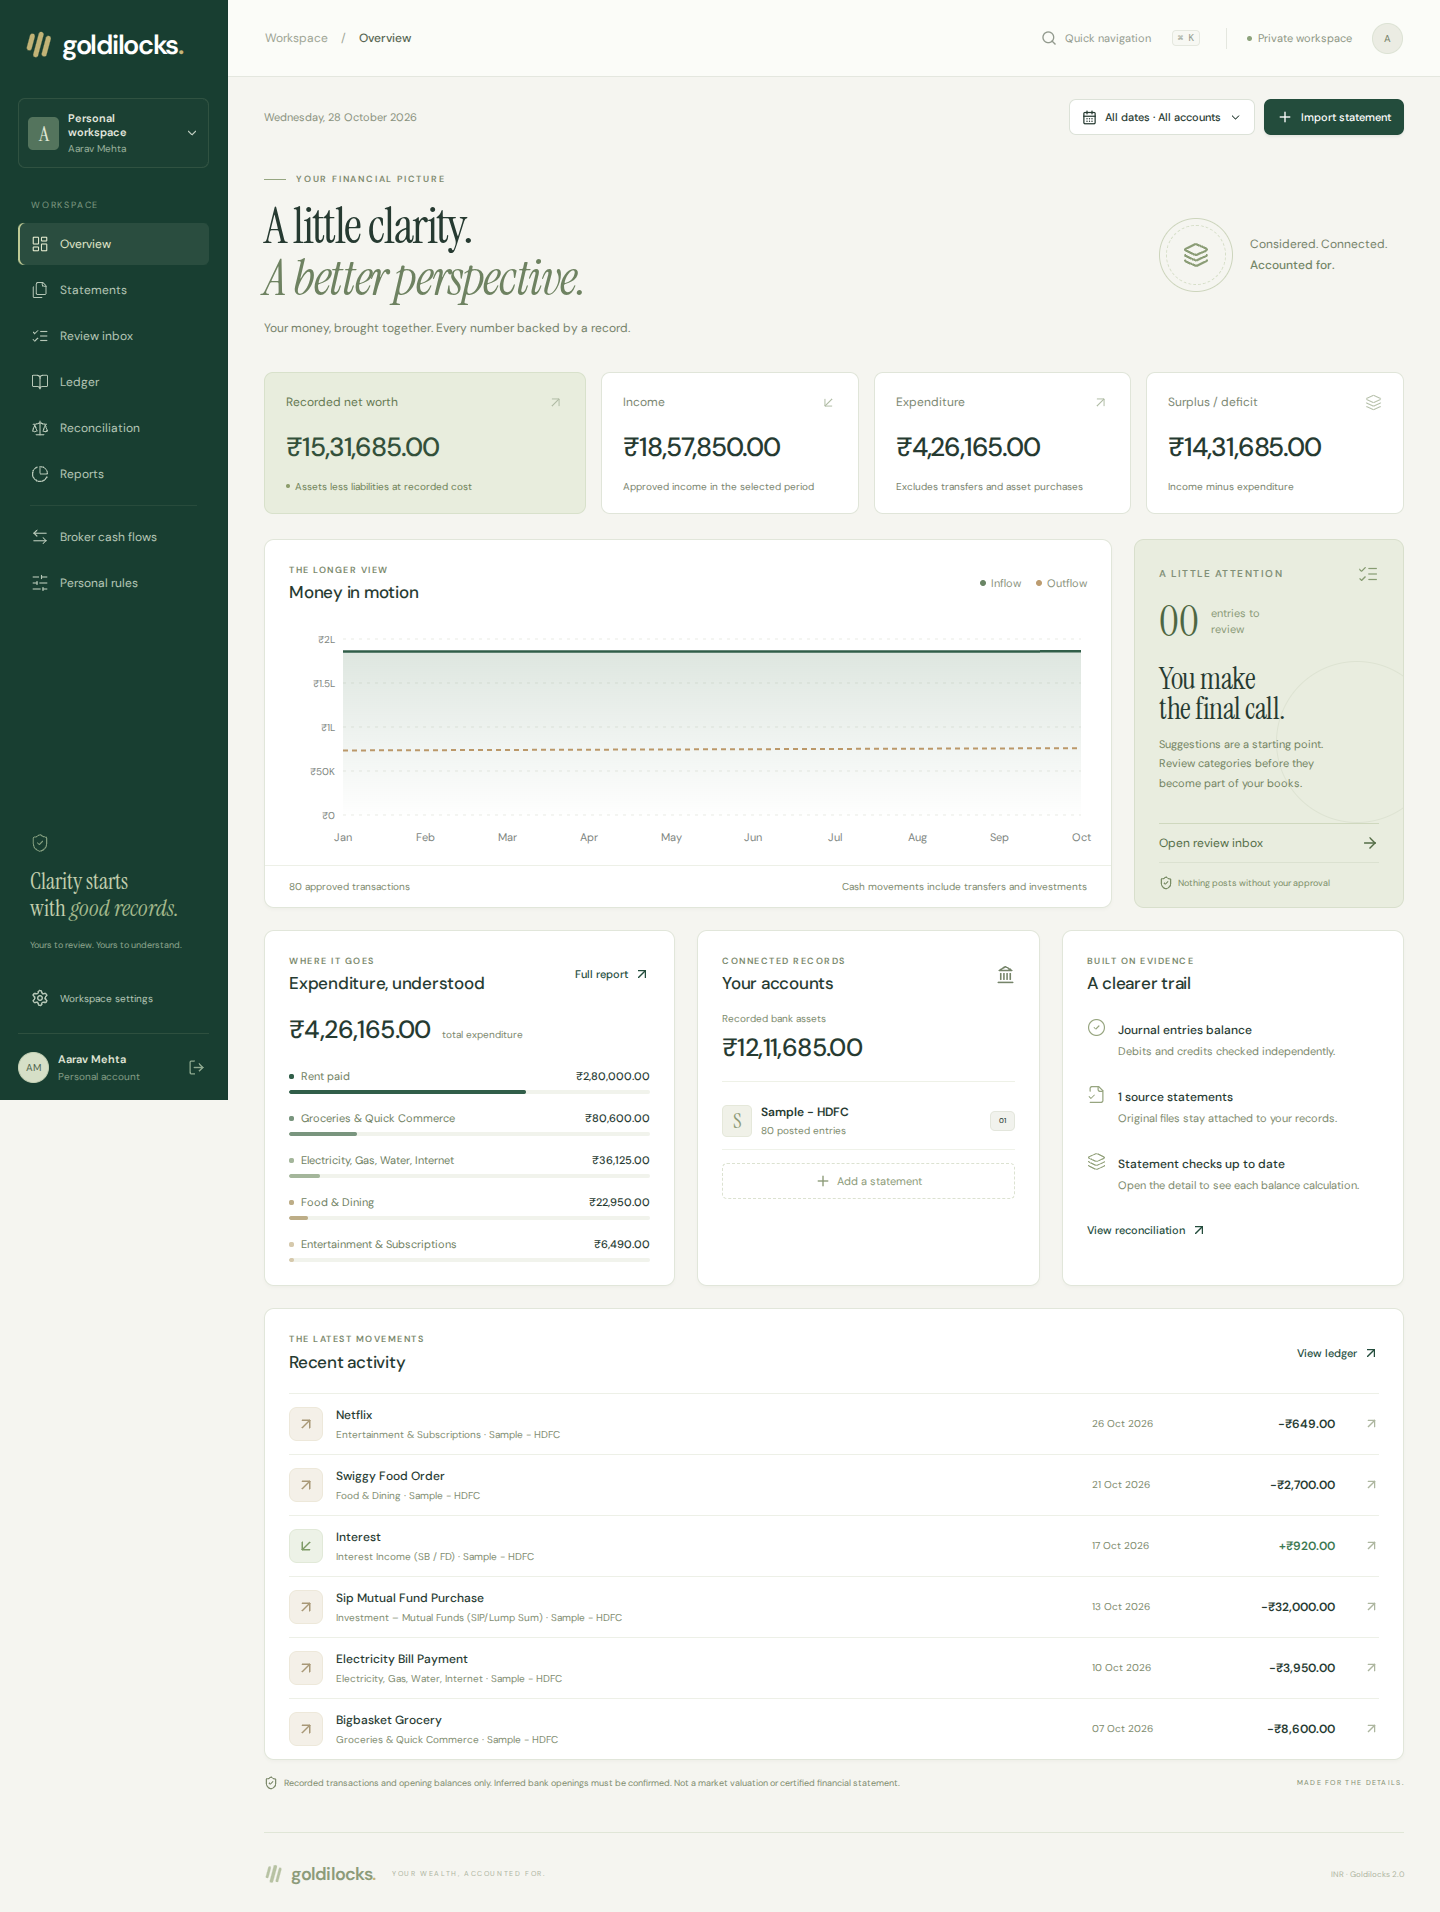
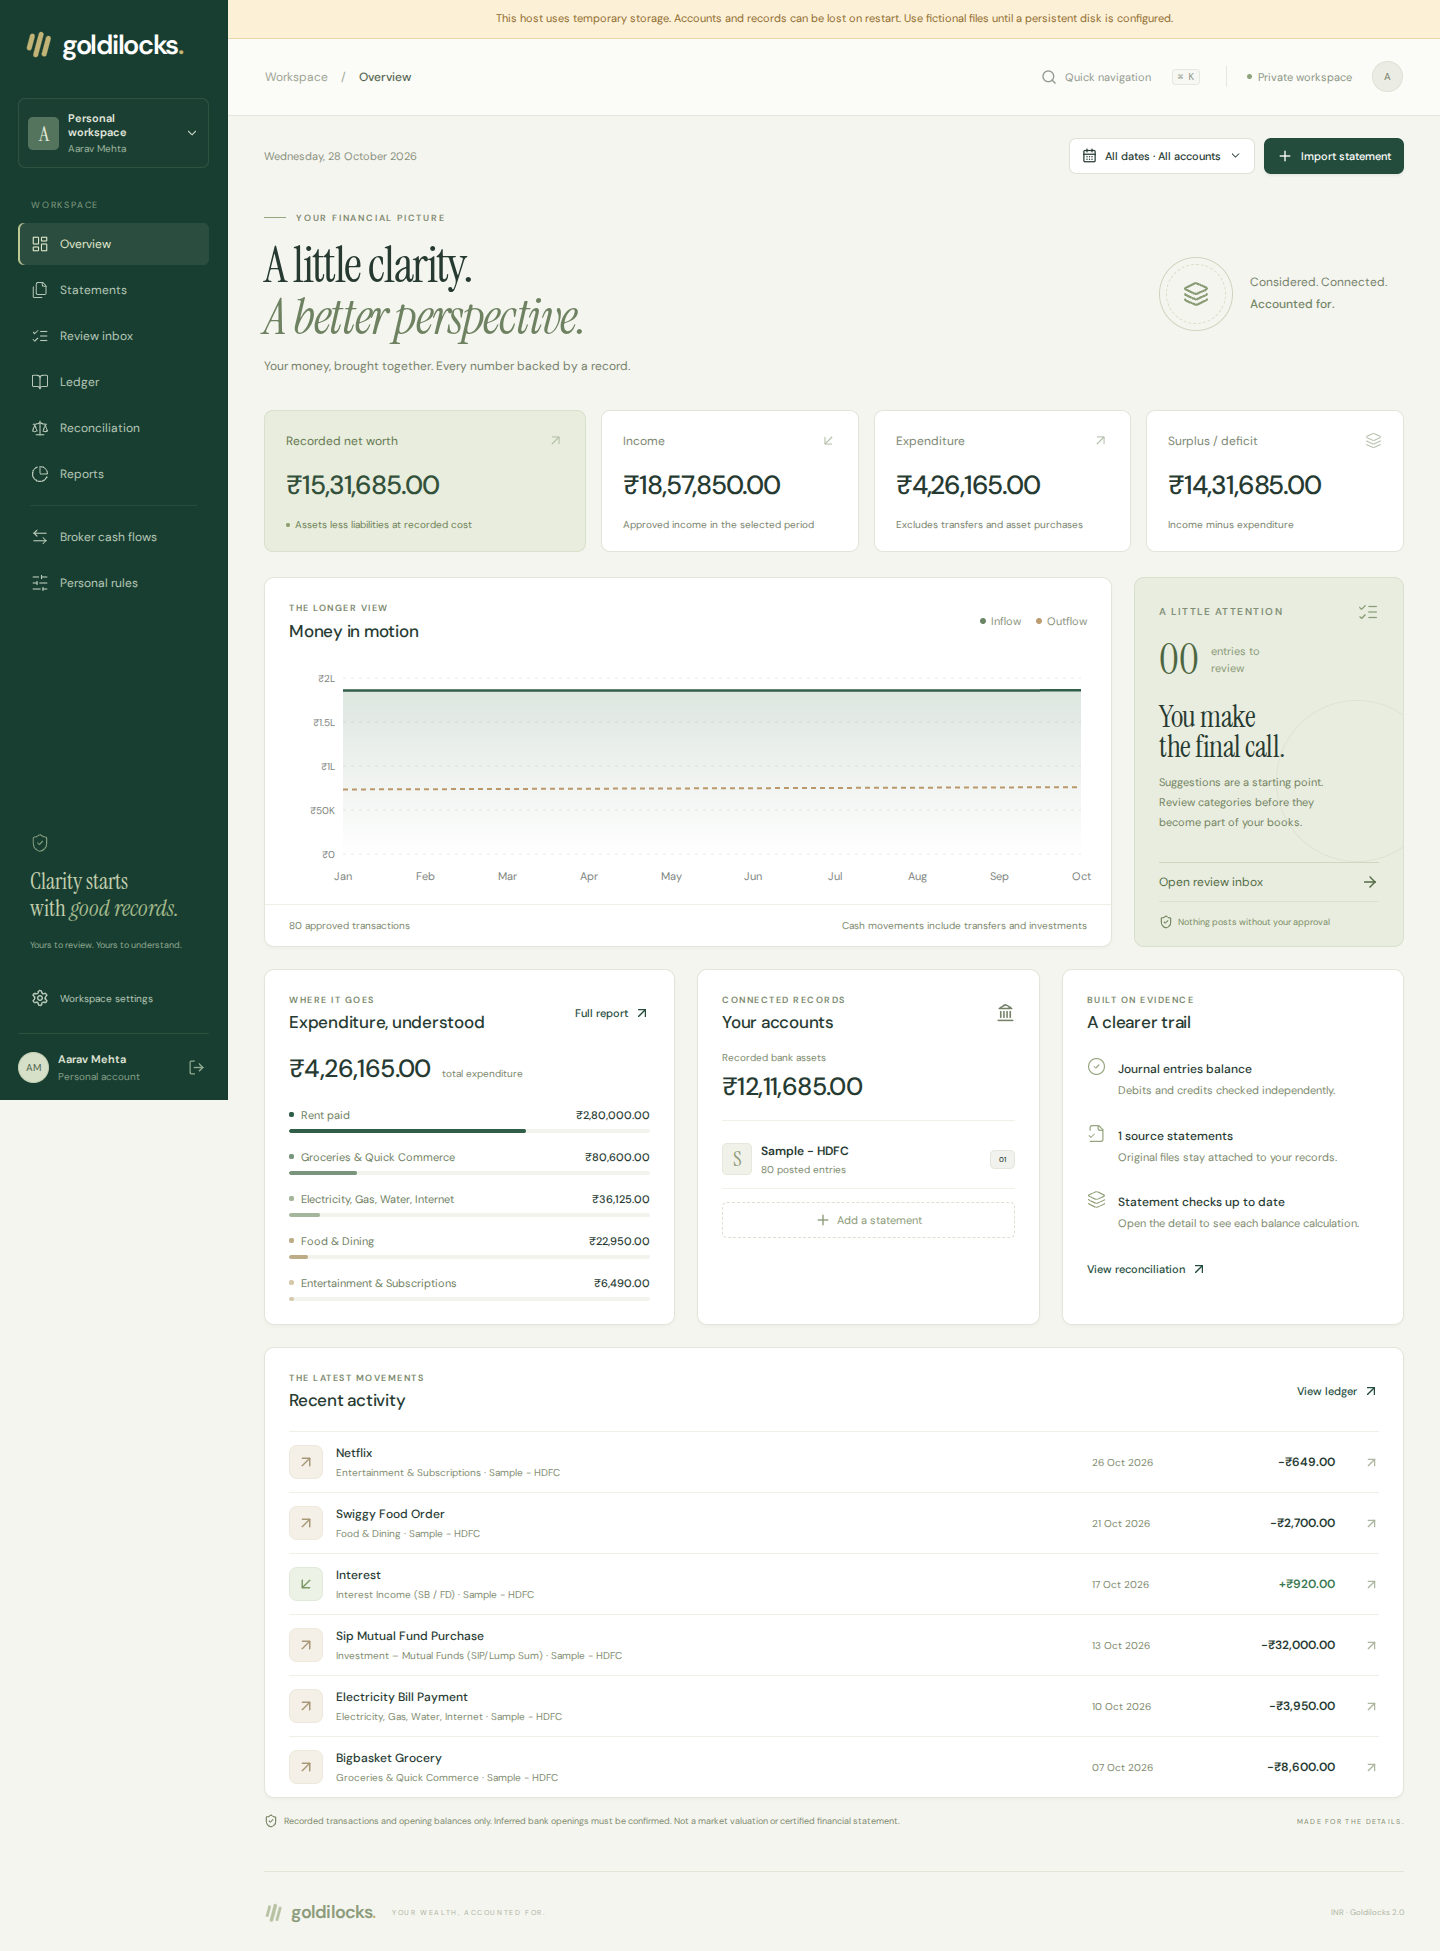
Document verified live deployment and final screenshots [skip render]
Record the exact running source commit and Render deploy, successful hosted browser workflow and two-account isolation checks. Explain manual public-repository deploy behavior and the remaining persistent-storage boundary. Documentation and screenshots only; do not restart the live services.

diff --git a/docs/VALIDATION.md b/docs/VALIDATION.md
@@ -19,7 +19,19 @@ Audit/test date: **28 October 2026**.
 - **The full Playwright browser workflow passed** against the real API: signup, recovery-code acknowledgement, sample import, batch approval, ledger search, original evidence, PDF download, multipart file upload, personal rule, settings, mobile navigation and sign-out.
 - Desktop and mobile screenshots are saved in `docs/screenshots/`.
 - `render.yaml` passed the current official Render JSON Schema. Platform-aware CLI validation has not been run; the Blueprint has not been applied.
-- Docker is not available in the local executor. The container build must also pass on the deployment host.
+- Docker was unavailable locally. The multi-stage Docker build passed on Render, and the live health endpoint confirms Tesseract is available.
+
+## GitHub and live release
+
+- Both push and pull-request GitHub Actions checks passed. [Verified workflow](https://github.com/Sankalp-gupta1/Goldilocks--HNI-ledger-board-SDE-/actions/runs/40731907237).
+- Live application: **https://goldilocks-workspace.onrender.com**.
+- Render service: `srv-dbh2h4bl550s73eq0li0`; Docker, Free plan, one instance.
+- The initial release `558255ed48ba4f104efd52487c8fcb76fc92eae6` became live in deploy `dep-dbh2h53l550s73eq0mo0`.
+- The full browser workflow passed against that public HTTPS URL, including real signup, source import, posting, evidence, PDF download, mobile navigation and logout.
+- A separate live check created two fictional accounts. The second could not read the first account's queue, transaction evidence or original file. Anonymous reads returned 401; a mutation without the required header returned 403.
+- Live posting produced balanced journals and expected income/expenditure; original-file bytes matched the uploaded fixture. Secure, HttpOnly and SameSite cookie flags were confirmed, and logout revoked both sessions.
+- Browser verification used the executor's network proxy. Its embedded Chromium required a local certificate-trust override; independent HTTPS requests succeeded with normal system certificate validation. No certificate bypass exists in the application.
+- A small banner/sidebar overlap discovered during the live visual check was fixed in `4bd1dde86647872040b18af087c1733a10b58dd2`. Render deploy `dep-dbh2mpou01pc73avqq8g` reached `live` on 28 October 2026 at 22:36 IST with that exact commit. The served HTML references the newly built CSS asset, and the HTTPS health check succeeds. The full live Playwright workflow was then rerun and passed again; the committed desktop/mobile screenshots come from this final deployment.
 
 ## Hosting boundary
 

diff --git a/docs/DEPLOYMENT.md b/docs/DEPLOYMENT.md
@@ -16,6 +16,8 @@ The version 2 startup command remains compatible. In production it starts Gunico
 
 The upgraded Docker service is [goldilocks-workspace.onrender.com](https://goldilocks-workspace.onrender.com). It tracks the `ledger-workspace-upgrade` branch and uses Render Free, one instance and `HNI_STORAGE_MODE=ephemeral`. Tesseract is installed in the container. The application shows a temporary-storage warning before login and inside the workspace.
 
+The service reports `autoDeploy=yes`, but no deployment followed the branch update during release. A manual deploy was therefore used after confirming no deployment was queued. Render documents that public-repository URL services need manual deploys until a Git provider is connected; do not assume a push is live.
+
 This is an isolated release; it does not copy or expose records from the old service. Accounts on the old URL are not automatically accounts on the new URL. Use fictional files until a permanent disk is attached and verified.
 
 The release/documentation merge uses Render's `[skip render]` commit marker to avoid restarting either service just for repository housekeeping. Future deployment changes should follow the backup procedure below. Source code and paid infrastructure configuration are in `main`; the live service branch is named above.
